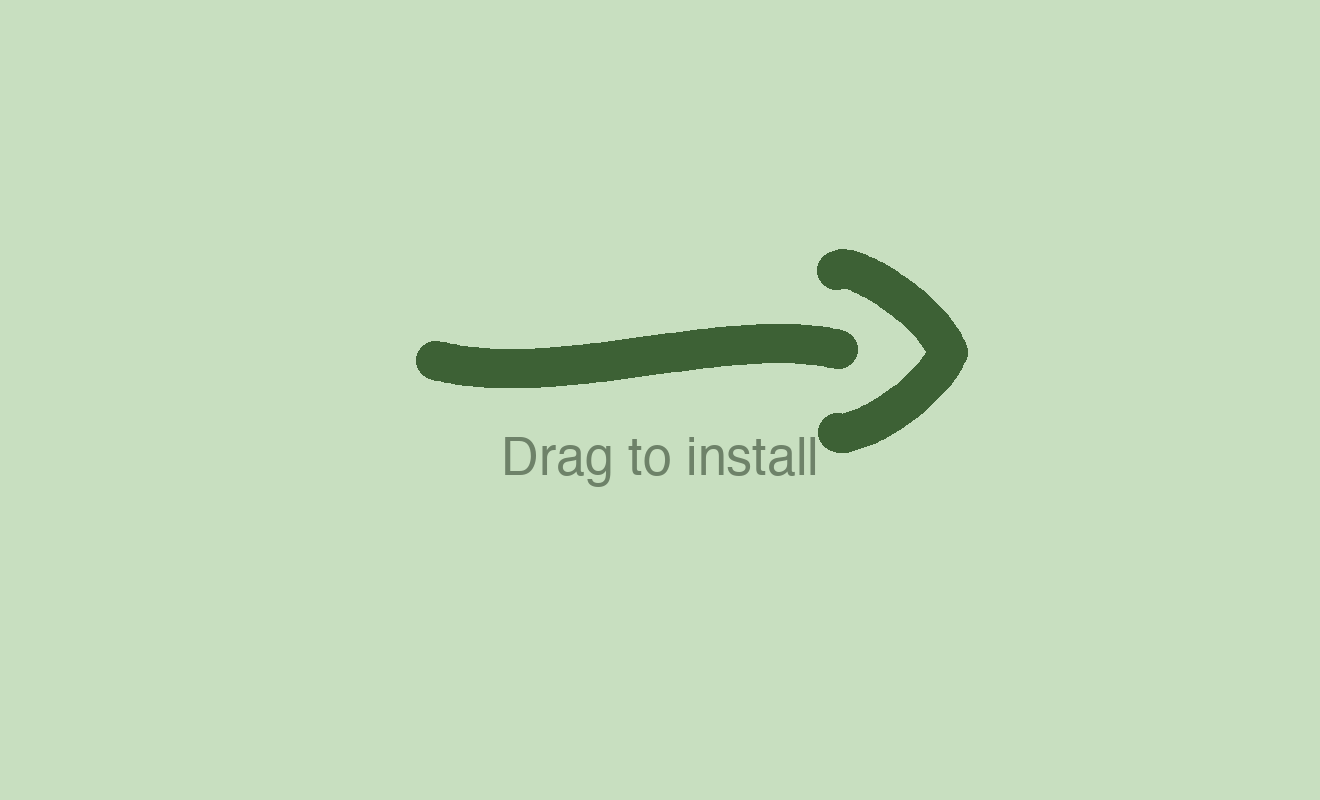
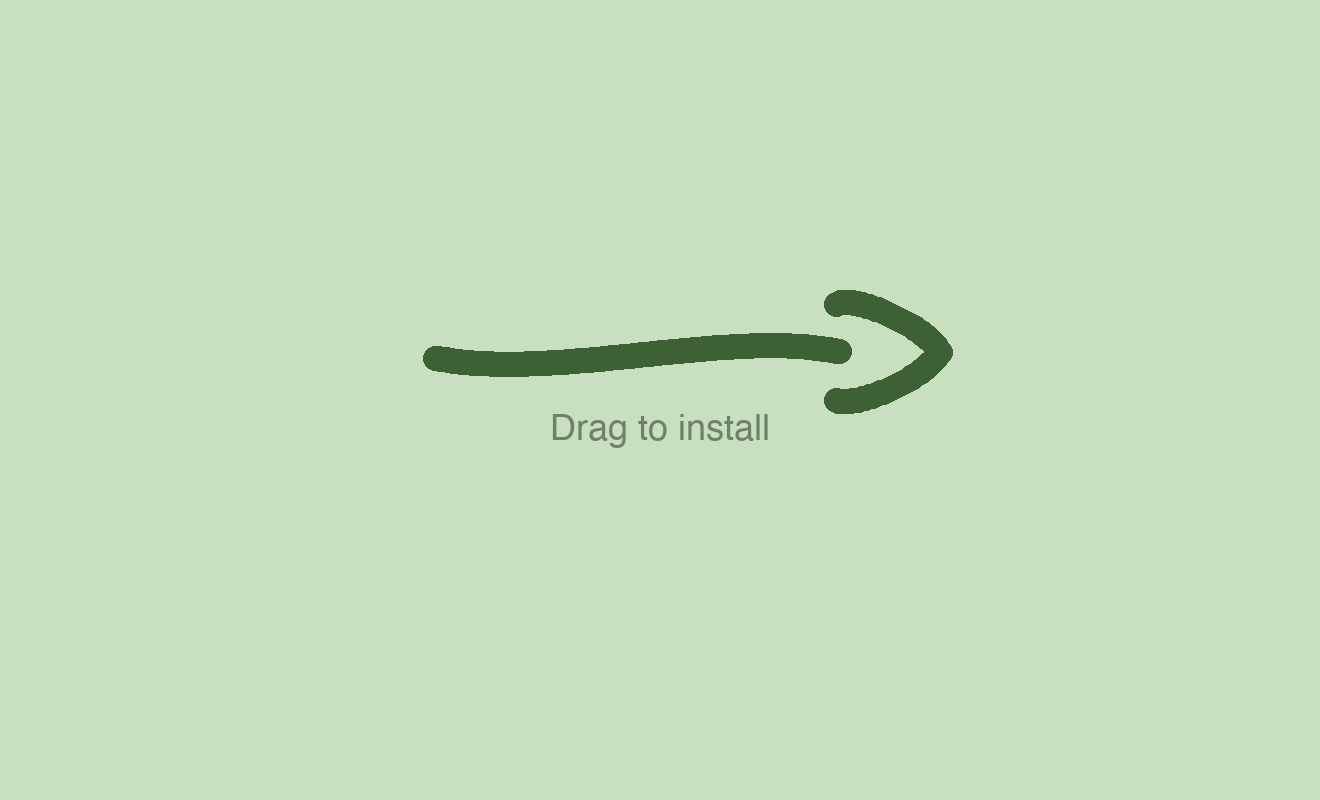
Reduce DMG background arrow size and stroke thickness
Shrink chevron arm spread, reduce stroke radius 19→12, and reduce
caption font size 52→36 so the design fits better within the DMG window.

Changed region(s): [[0.3106, 0.3125, 0.7455, 0.625]]

diff --git a/scripts/generate-dmg-background.py b/scripts/generate-dmg-background.py
@@ -42,31 +42,31 @@ def paint_stroke(pts, r, color=FG):
             px_prev = (ix, iy)
 
 
-R = 19   # stroke radius
+R = 12   # stroke radius
 
 # ── Shaft: wobbly S-curve ──────────────────────────────────────────────────────
-shaft = cbez((435, 360), (555, 392), (730, 323), (840, 350))
+shaft = cbez((435, 358), (555, 382), (730, 328), (840, 352))
 paint_stroke(shaft, R)
 
 # ── Chevron: two separate arms meeting at the tip (">" shape) ─────────────────
-tip = (948, 352)
+tip = (940, 352)
 
-top = cbez((836, 270), (854, 261), (932, 310), tip)
+top = cbez((836, 304), (850, 295), (922, 322), tip)
 paint_stroke(top, R)
 
-bot = cbez(tip, (932, 394), (854, 441), (836, 432))
+bot = cbez(tip, (922, 382), (850, 409), (836, 400))
 paint_stroke(bot, R)
 
 # ── "Drag to install" caption ─────────────────────────────────────────────────
 try:
-    font = ImageFont.truetype("/System/Library/Fonts/Helvetica.ttc", 52)
+    font = ImageFont.truetype("/System/Library/Fonts/Helvetica.ttc", 36)
 except Exception:
     font = ImageFont.load_default()
 
 label = "Drag to install"
 bb = draw.textbbox((0, 0), label, font=font)
 lx = (W - (bb[2] - bb[0])) // 2
-draw.text((lx, 352 + 82), label, fill=TEXT, font=font)
+draw.text((lx, 352 + 60), label, fill=TEXT, font=font)
 
 # ── save ──────────────────────────────────────────────────────────────────────
 out_dir = os.path.join(os.path.dirname(__file__), "..", "assets")
